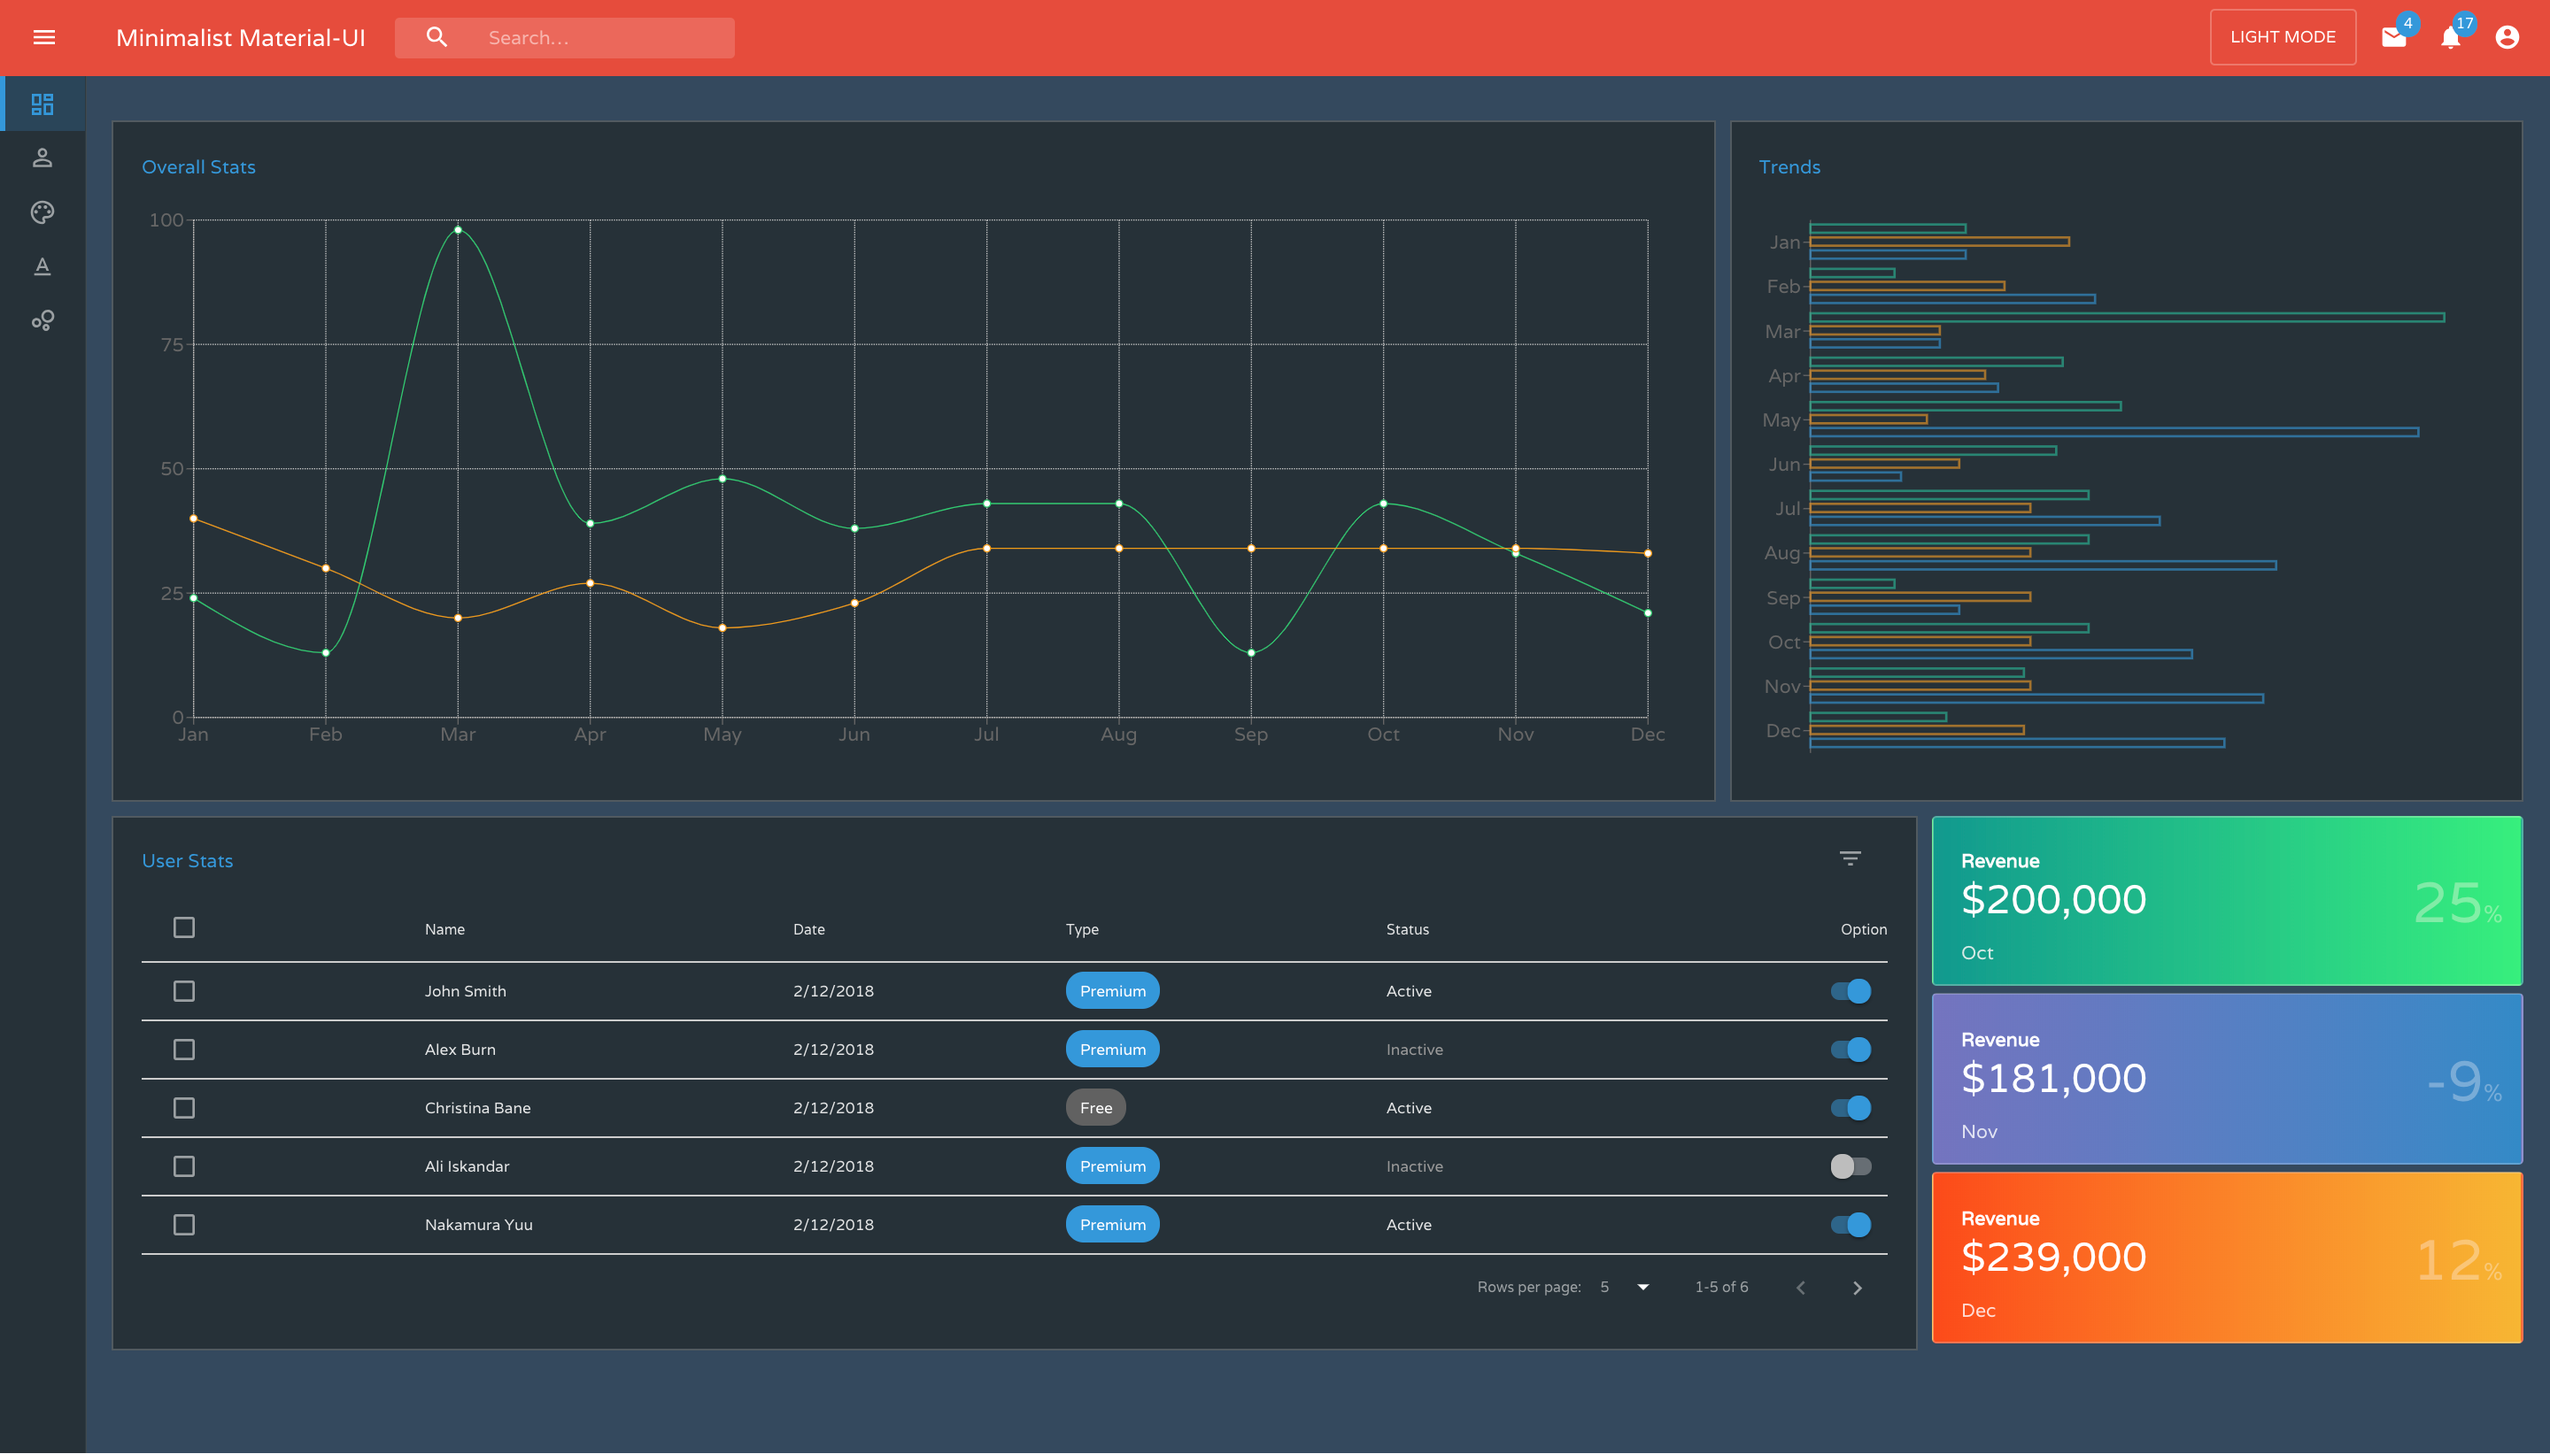
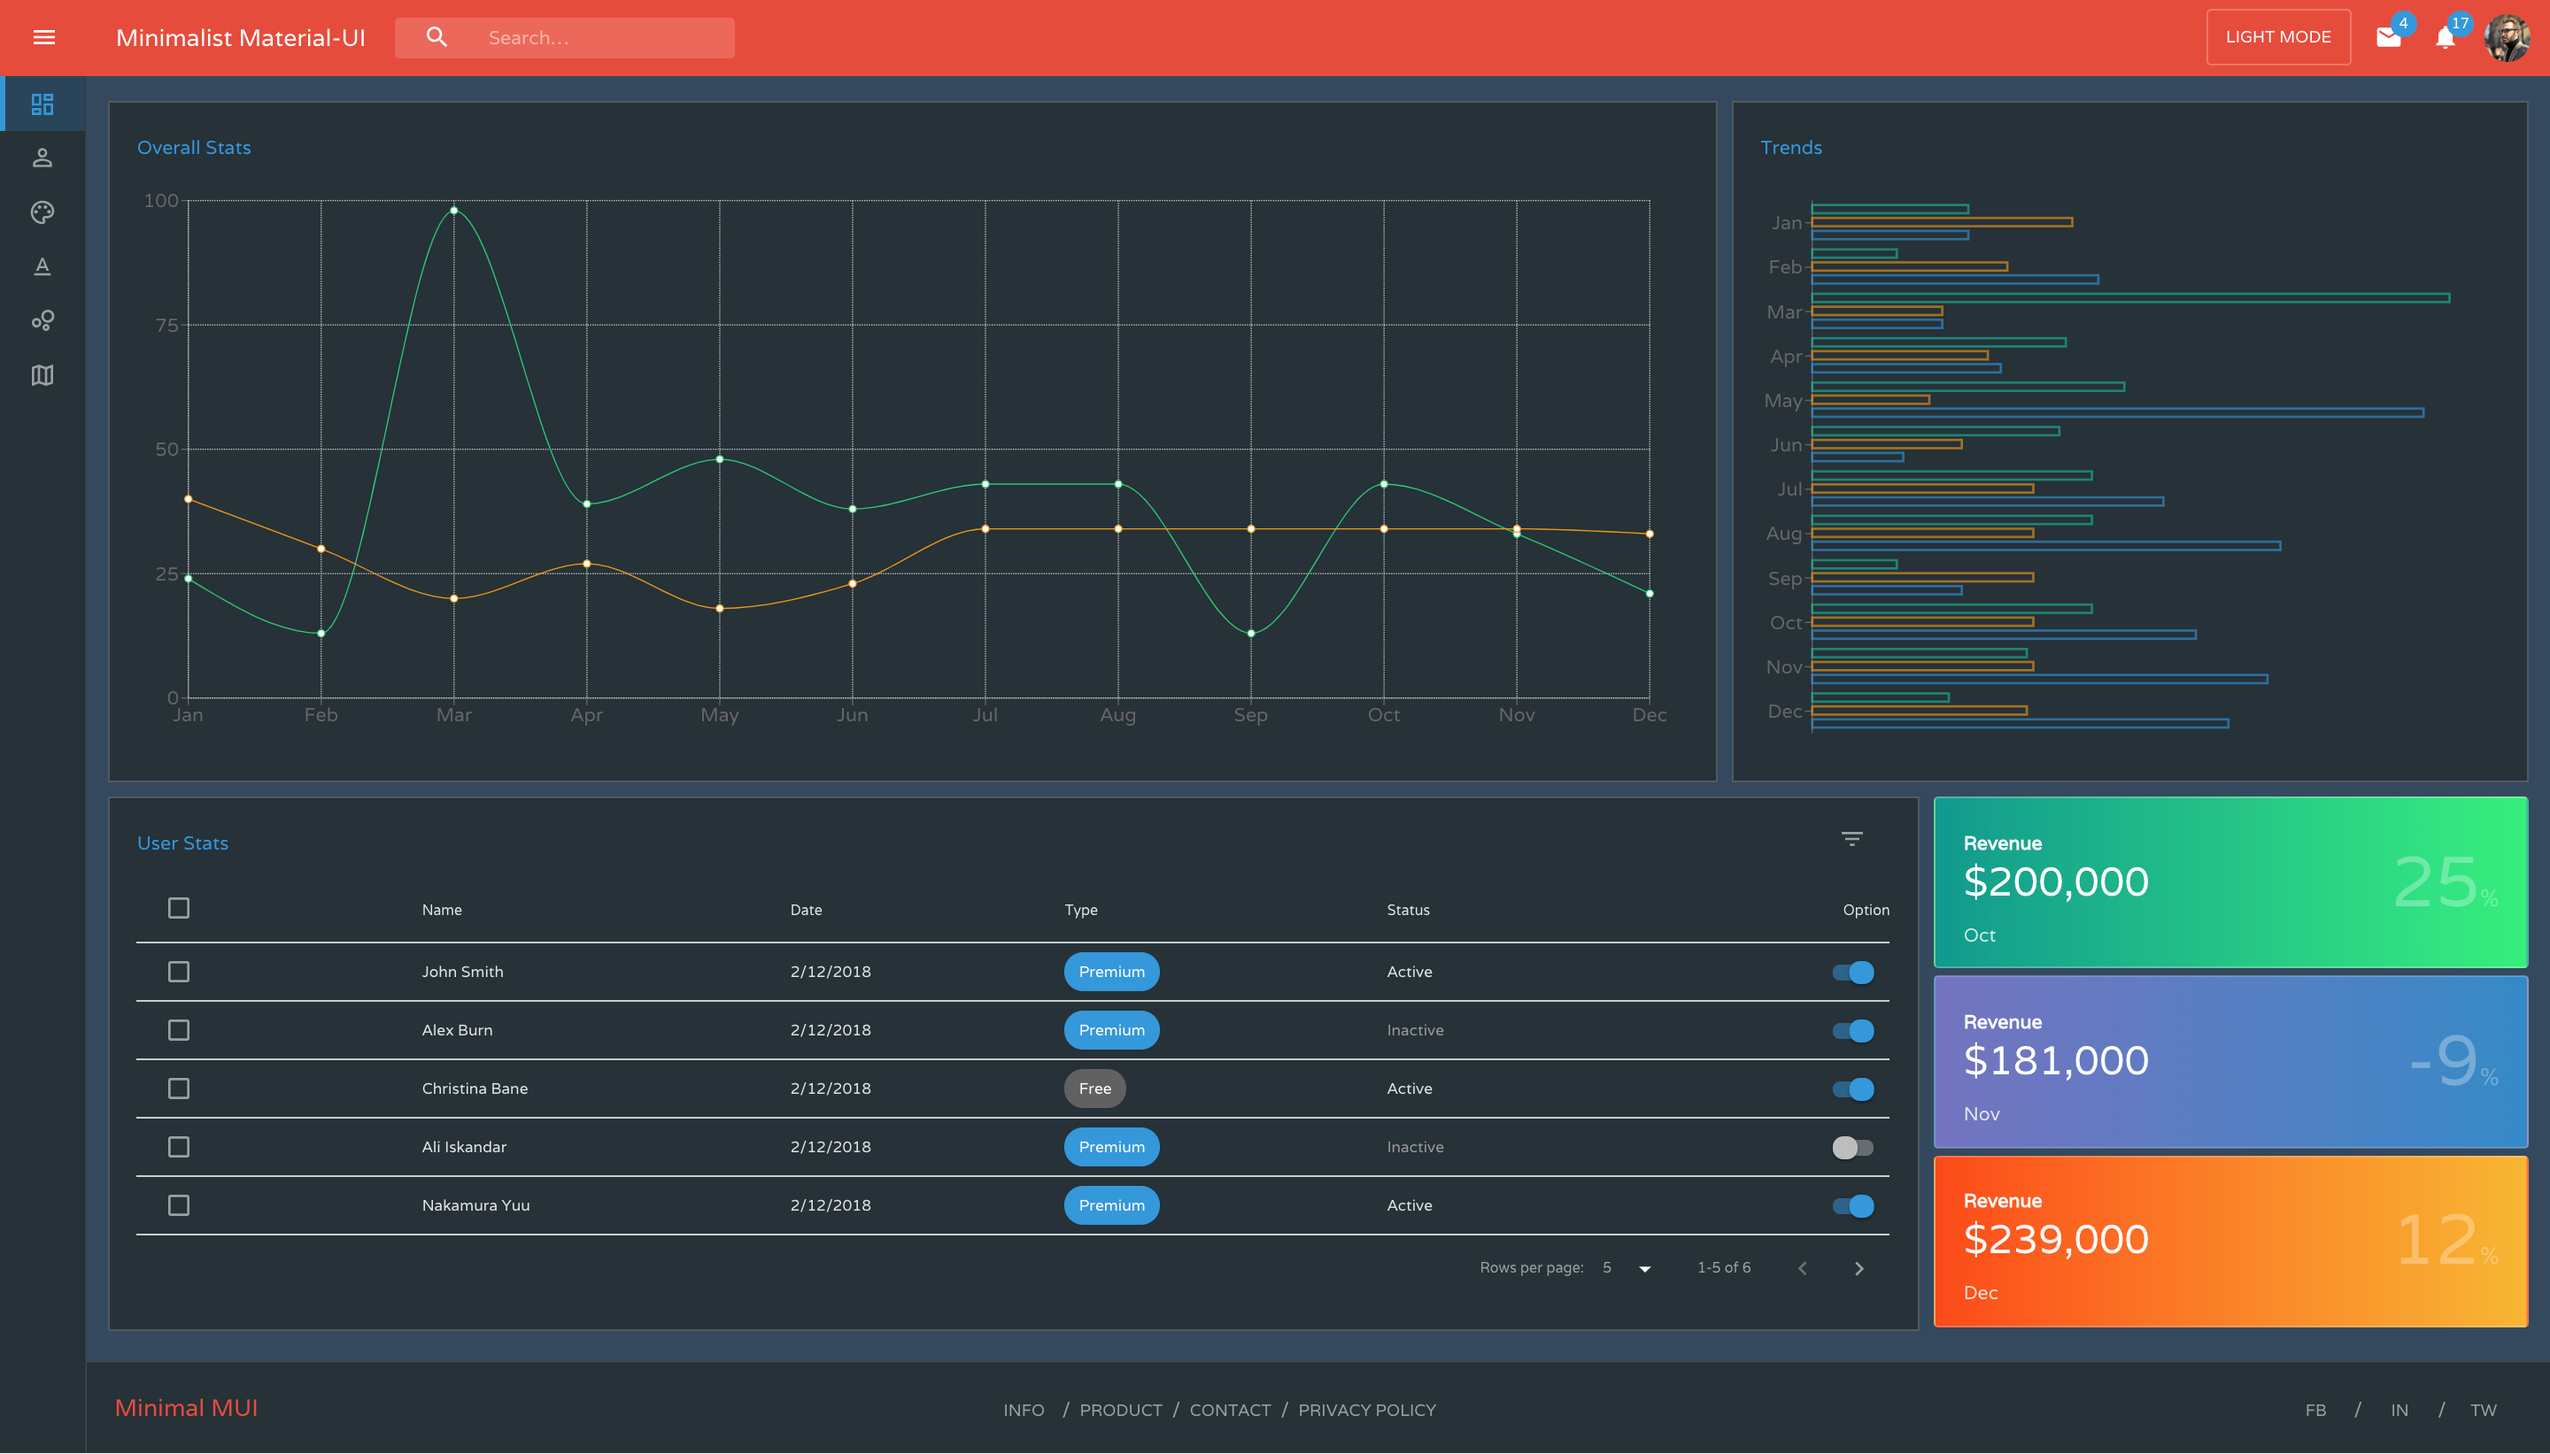
Add Footer

diff --git a/src/components/Footer/Footer.jsx b/src/components/Footer/Footer.jsx
@@ -1,0 +1,61 @@
+import { makeStyles } from "@material-ui/styles";
+import React from "react";
+import { Button, Grid, Typography } from "../../../node_modules/@material-ui/core";
+const useStyles = makeStyles(theme => ({
+    footer: {
+        background: theme.palette.background.paper,
+        padding: theme.spacing.unit,
+        width: "100%",
+        bottom:0,
+        verticalAlign: "middle",
+        borderTop: `1px solid ${theme.palette.divider}`,
+    
+    },
+    gridItem: {
+        padding: "16px 16px",
+        color:theme.palette.text.secondary
+    },
+}))
+function Footer() {
+    const classes = useStyles();
+    return (
+        <footer className={classes.footer}>
+            <Grid container>
+                <Grid className={classes.gridItem} item xs={12} sm={12} md={2}>
+                    <Typography variant="h6" color="primary" >Minimal MUI</Typography>
+                </Grid>
+                <Grid className={classes.gridItem} item xs={12} sm={12} md={7} style={{
+                    textAlign: "center"
+                }}>
+                    <Button color="inherit">
+                        Info
+                    </Button>/
+                    <Button color="inherit">
+                        Product
+                    </Button>/
+                    <Button color="inherit">
+                        Contact
+                    </Button>/
+                    <Button color="inherit">
+                        Privacy Policy
+                    </Button>
+                </Grid>
+                <Grid className={classes.gridItem} item xs={12} sm={12} md={3} style={{
+                    textAlign: "right"
+                }}>
+                    <Button color="inherit">
+                        Fb
+                    </Button>/
+                    <Button color="inherit">
+                        In
+                    </Button>/
+                    <Button color="inherit">
+                        Tw
+                    </Button>
+                </Grid>
+            </Grid>
+        </footer>
+    )
+}
+
+export default Footer;

diff --git a/src/layouts/Dashboard/Dashboard.jsx b/src/layouts/Dashboard/Dashboard.jsx
@@ -6,6 +6,7 @@ import Sidebar from "../../components/Sidebar/Sidebar";
 import dashboardRoutes from "../../routes/dashboard";
 import { createRoutes } from "../../routes/utils";
 import { CssBaseline, Typography, Hidden } from "../../../node_modules/@material-ui/core";
+import Footer from "../../components/Footer/Footer";
 
 
 const useStyles = makeStyles(theme => ({
@@ -51,28 +52,32 @@ function App() {
     </Hidden>
     <Sidebar open={open} openMobile={openMobile} onDrawerClose={(type) => () => type === "mobile" ? setOpenMobile(false) : setOpen(false)} routes={dashboardRoutes} />
 
-    <main
-      ref={mainEl}
+    <div id="main-panel" ref={mainEl}
       style={{
         flexGrow: 1,
-        // padding: 16,
         height: "100vh",
         overflowX: "hidden",
         overflowY: "auto"
       }}>
-      <div style={{
-        height: 64,
-
-      }} />
-      <div style={{
-        flex: 1,
-        height: "inherit"
+      <main style={{
+          minHeight: "calc(100% - 85px)"
 
       }}>
-        {switchRoutes}
-      </div>
+        <div style={{
+          height: 64,
 
-    </main>
+        }} />
+        <div style={{
+          flex: 1,
+          height: "100%"
+        }}>
+          {switchRoutes}
+
+        </div>
+
+      </main>
+      <Footer />
+    </div>
   </div>)
 
 

diff --git a/src/components/Card/Card.jsx b/src/components/Card/Card.jsx
@@ -38,7 +38,7 @@ function Card({ percentage, text, title, subtitle, background = "black" }) {
             <Typography color={"inherit"} variant={"subtitle1"}
                 className={classes.cardMonth}>{subtitle}</Typography>
 
-            {percentage >= 0 ? <Typography color={"inherit"} variant={"h2"}
+            {percentage !== undefined && percentage !== null ? <Typography color={"inherit"} variant={"h2"}
                 className={classes.cardPercentage}>{percentage}<span>%</span>
             </Typography> : ""}
 

diff --git a/src/assets/css/index.css b/src/assets/css/index.css
@@ -28,7 +28,7 @@ a{
       overflow: hidden;
   }
 
-  main{
+  #main-panel{
     -webkit-overflow-scrolling: touch;
   }
 }
